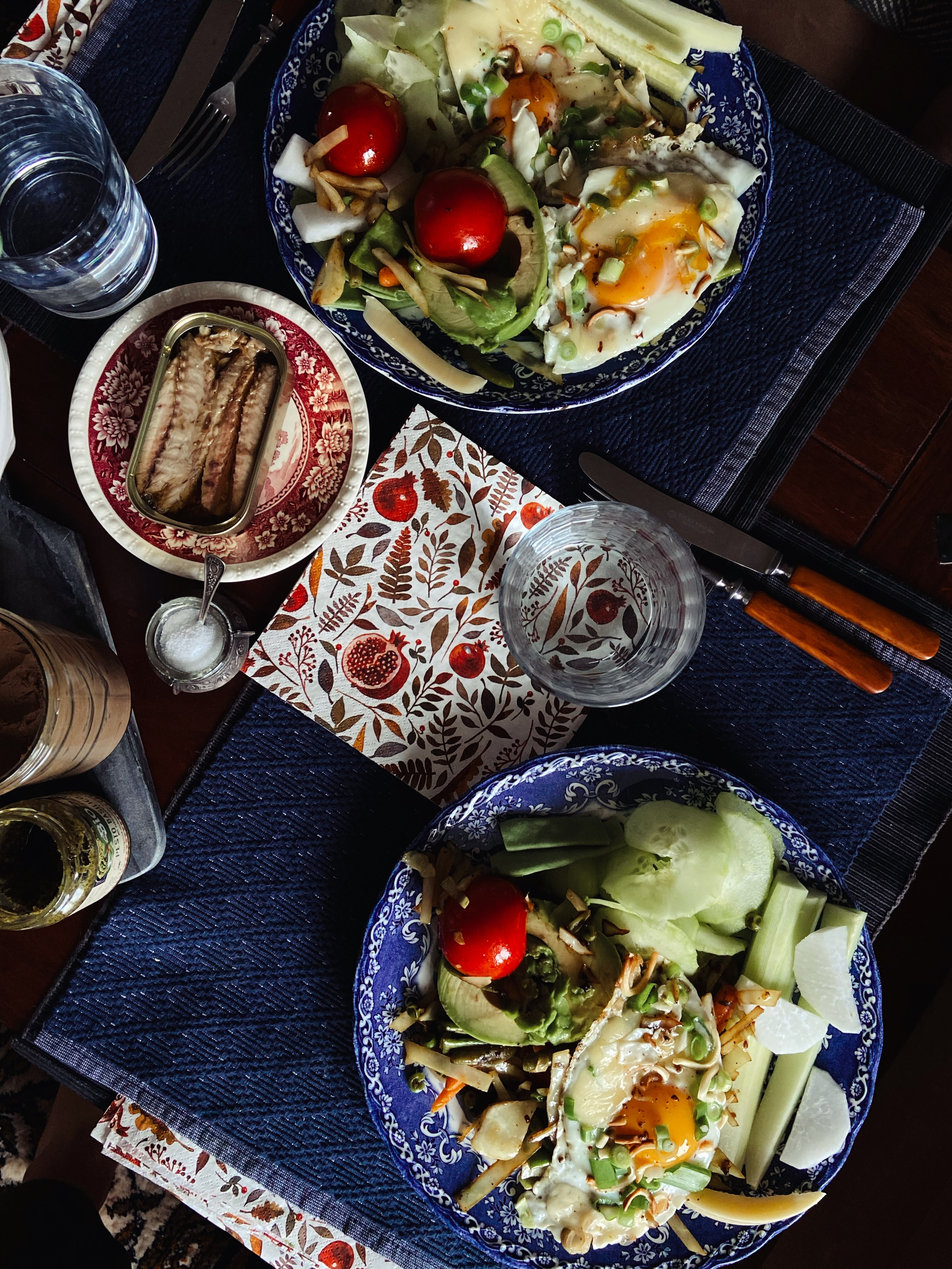
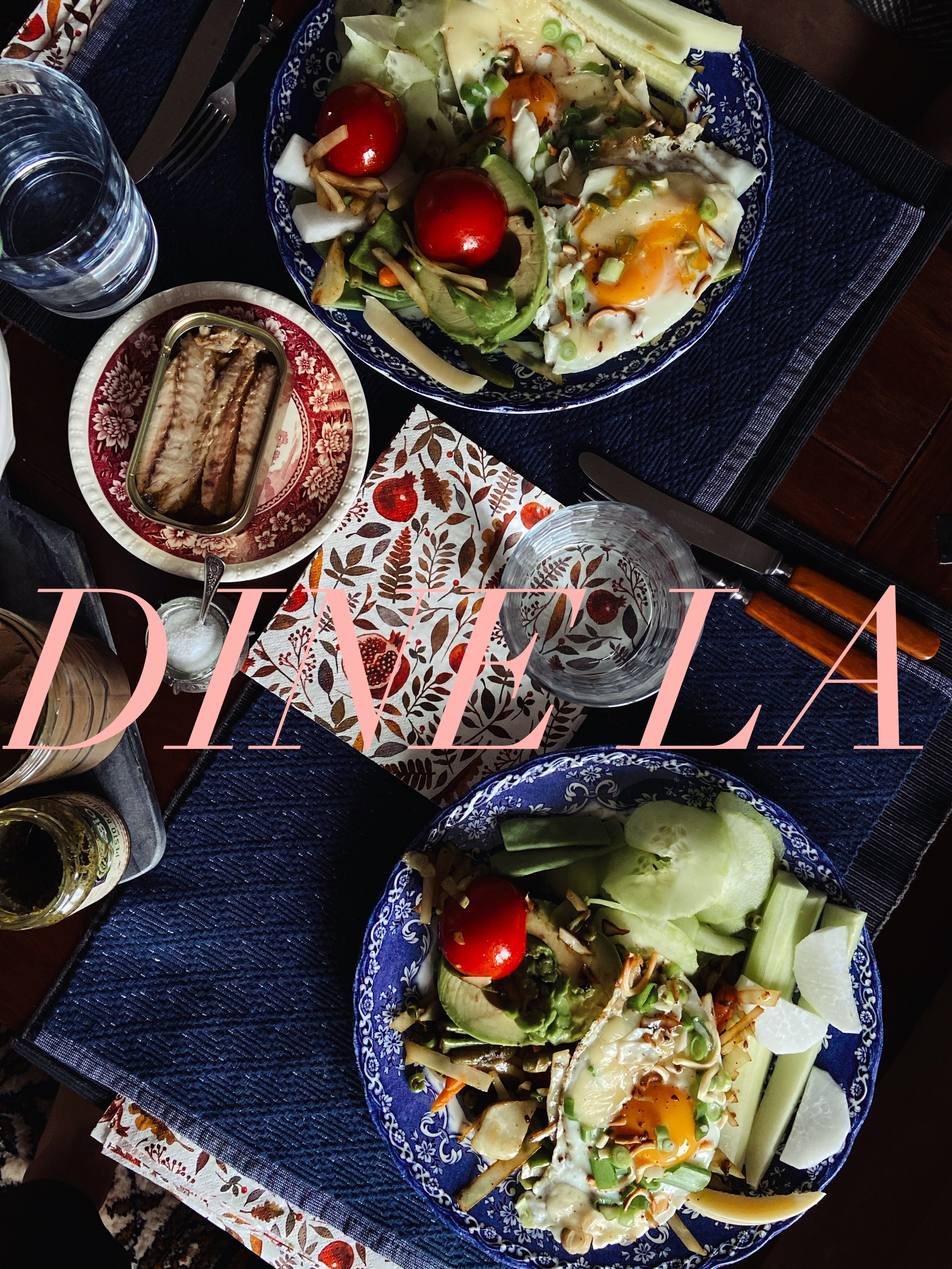
Added Updated Project Photos, Inserted links to fake projects, added media query for projects

diff --git a/index.html b/index.html
@@ -31,9 +31,9 @@
             <h2>Projects</h2>
         </div>
 
-        <main>
+        <main class="Main">
             <section class="ProjectOne">
-                <a id="AutoShow" href="#" target="_blank"
+                <a id="AutoShow" href="https://laautoshow.com/" target="_blank"
                     ><img alt="AutoShow" src="./Project Photos/AutoShow.jpg"
                 /></a>
             </section>
@@ -47,20 +47,26 @@
                 /></a>
             </div>
             <div class="ProjectTwoThree">
-                <a id="DineLA" href="#" target="_blank"
+                <a
+                    id="DineLA"
+                    href="https://www.discoverlosangeles.com/dinela"
+                    target="_blank"
                     ><img alt="Food" src="./Project Photos/DineLA.jpg"
                 /></a>
             </div>
             <br />
             <div class="ProjectFourFive">
-                <a id="Interior" href="#" target="_blank"
+                <a
+                    id="Interior"
+                    href="https://www.worldofinteriors.co.uk/"
+                    target="_blank"
                     ><img
                         alt="Interior"
                         src="./Project Photos/WorldofInteriors.jpg"
                 /></a>
             </div>
             <div class="ProjectFourFive">
-                <a id="Fashion" href="#" target="_blank"
+                <a id="Fashion" href="https://www.vogue.com/" target="_blank"
                     ><img alt="Runway" src="./Project Photos/Vogue.jpg"
                 /></a>
             </div>

diff --git a/style.css b/style.css
@@ -162,34 +162,28 @@ footer {
 
 @media screen and (max-width: 734px) {
     header,
-    main,
-    ul {
+    main {
         flex-direction: column;
     }
 
-    .introName {
-        padding: 10px;
-    }
-
-    header h1 {
-        text-align: center;
-    }
-
-    ul {
-        align-items: center;
-    }
-
-    li {
-        padding: 10px;
-    }
-
     #Logo {
-        width: 60%;
+        width: 25%;
         height: auto;
         padding: 5px;
     }
     .Logos {
         flex-direction: column;
+        text-align: center;
+    }
+}
+
+@media screen and (max-width: 950px) {
+    .ProjectOne,
+    .ProjectTwoThree,
+    .ProjectFourFive {
+        flex-wrap: nowrap;
+        display: block;
+        width: 100%;
         text-align: center;
     }
 }
